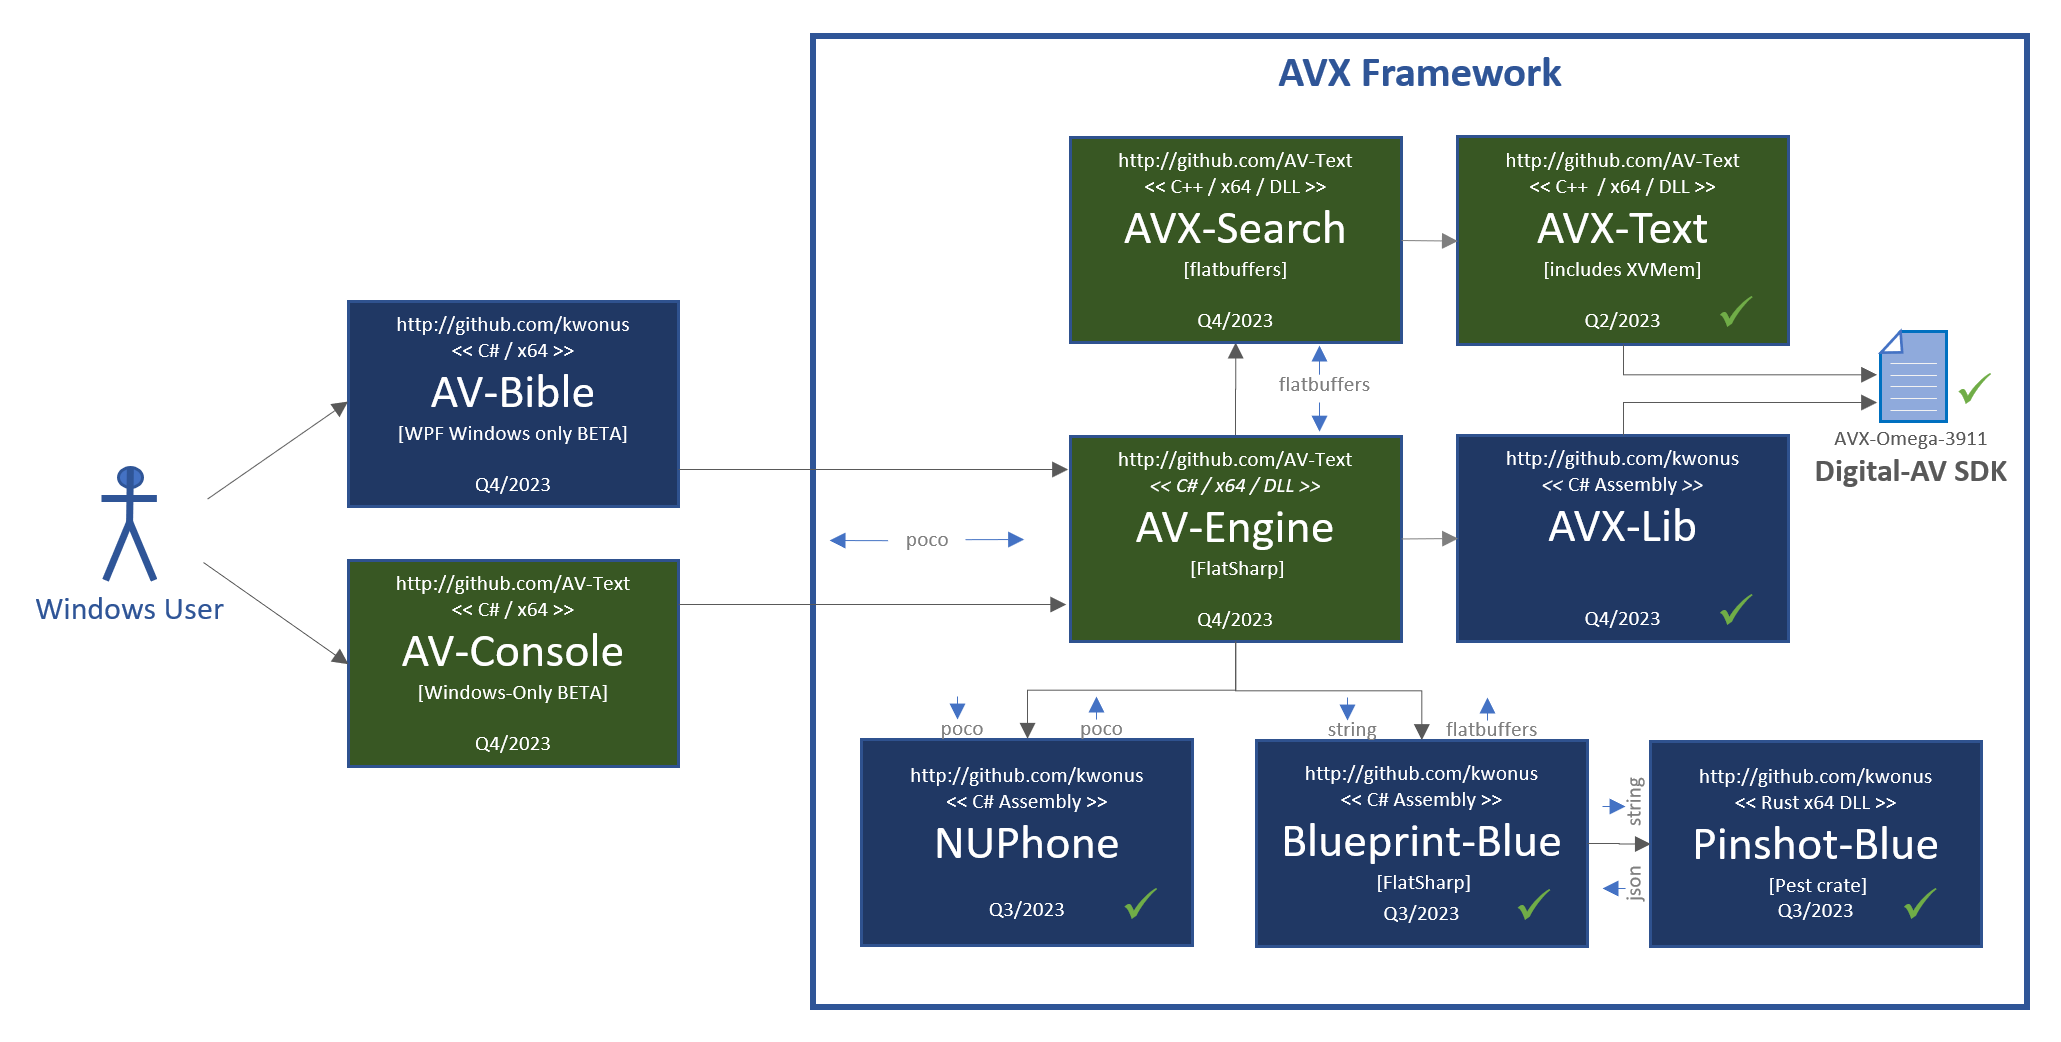
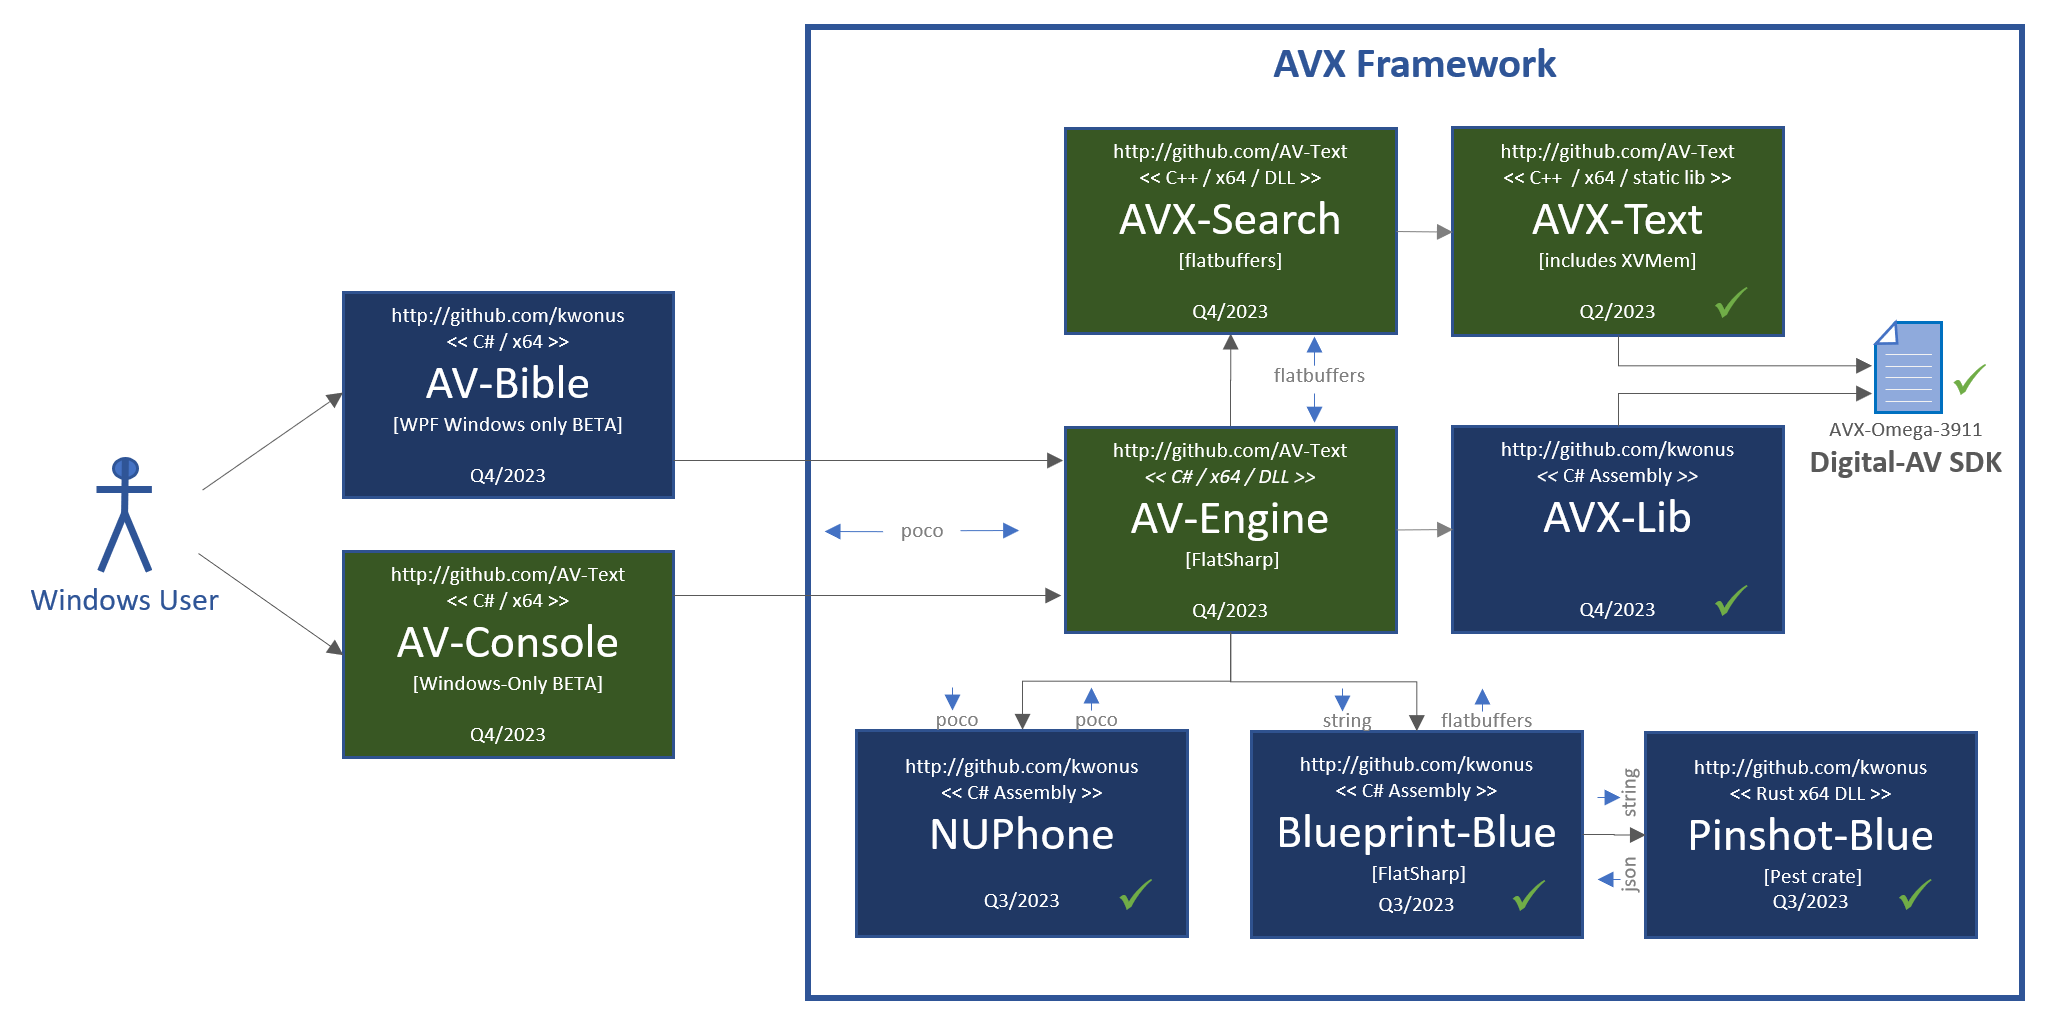
Update diagrams to reflect that AVXText is a static library

diff --git a/README.md b/README.md
@@ -39,7 +39,7 @@ Consumers of AVX-Framework directly target a single dotnet assembly, namely AV-E
 
 ![](AVXSearch/AVX-Framework.png)
 
-**Figure-1**: AVX-Framework dependency diagram [revision #3B07]
+**Figure-1**: AVX-Framework dependency diagram [revision #3B16]
 
 Evidenced by Figure-1, serialization is used for parameters when crossing language-boundaries. Parameter serialization, for in-proc cross-language invocation, is used in lieu more granular parameter-marshalling, because it is both more efficient and less fragile than marshalling. In-proc method invocations that do <u>not</u> cross language boundaries utilize POCO (plain old C# objects \<or\> plain old C++ objects). The table in Figure 2 identifies serialization formats used for inputs and outputs per module, along with repository references.
 
@@ -47,14 +47,14 @@ Evidenced by Figure-1, serialization is used for parameters when crossing langua
 | ------------------------------------------------------------ | ------------------------------------------------------------ | ------------------------------------------------------------ |
 | **AV-Engine** *(github.com/AV-Text/AVX)*<br/>[./AV-Engine](https://github.com/AV-Text/AVX/tree/master/AV-Engine) | Quelle Command (text)                                        | IAVResult   interface                                        |
 | **AVX-Search** *(github.com/AV-Text/AVX)*<br/>[./AVXSearch](https://github.com/AV-Text/AVX/tree/master/AVXSearch) | flatbuffers binary [blueprint]<br/>*(schema: blueprint_blue.fbs)* | flatbuffers binary [search results]<br/>*(schema: avx_search.fbs)* |
-| **AVX-Text** *(github.com/AV-Text/AVX)*<br/>[./AVXText](https://github.com/AV-Text/AVX/tree/master/AVXText) | C++ Classes/Methodsls                                        | C++ Classes/Methods                                          |
+| **AVX-Text** *(github.com/AV-Text/AVX)*<br/>[./AVXText](https://github.com/AV-Text/AVX/tree/master/AVXText) | C++ Classes/Methods                                          | C++ Classes/Methods                                          |
 | **Digital-AV** *(github.com/AV-Text/AVX)*<br/>[./omega](https://github.com/AV-Text/AVX/tree/master/omega)/AVX-Omega-3911.data | n/a                                                          | *see specification:*<br />[Digital-AV-Ω39.pdf](https://github.com/AV-Text/AVX/blob/master/omega/Digital-AV-Ω39.pdf) |
 | **AVX-Lib** *(github.com/kwonus/Digital-AV)*<br/>[./omega/foundations/csharp/AVXLib](https://github.com/kwonus/Digital-AV/tree/master/omega/foundations/csharp/AVXLib) | C# Classes/Methods                                           | C# Classes/Methods                                           |
 | **Pinshot-Blue** *(github.com/kwonus/pinshot-blue)*<br/>[./src](https://github.com/kwonus/pinshot-blue/tree/main/src) | null-terminated text                                         | json-formatted text [pinshot]<br/>*(null-terminated text)*   |
 | **Blueprint-Blue** *(github.com/kwonus/blueprint-blue)*<br/>[./Blueprint-Blue-Lib](https://github.com/kwonus/blueprint-blue/tree/main/Blueprint-Blue-Lib) | null-terminated text                                         | flatbuffers binary [blueprint]<br/>*(schema: blueprint_blue.fbs)* |
 | **NUPhone** *(github.com/kwonus/NUPhone)*<br/>[./PhonemeEmbeddings](https://github.com/kwonus/NUPhone) | C# Classes/Methods                                           | C# Classes/Methods                                           |
 
-**Figure-2**: AVX-Framework input and output definition and repository details [revision #3B07]
+**Figure-2**: AVX-Framework input and output definition and repository details [revision #3B16]
 
 ### AV-Engine Internals
 
@@ -72,13 +72,13 @@ A BETA release of AV-Bible and AV-Console are planned for 2023. The development 
 
 ![](AVXSearch/AVX-Roadmap-2023.png)
 
-**Figure-4**: Development roadmap for BETA releases in 2023 [revision #3B07]
+**Figure-4**: Development roadmap for BETA releases in 2023 [revision #3B16]
 
 We plan to harden AV-Bible (Windows desktop application) and release it into the Microsoft Store in the first quarter of 2024. Afterwards, additional apps will be implemented and released. The diagram, depicted in Figure-5, identifies anticipated application releases and estimated release dates:
 
 ![](AVXSearch/AVX-Roadmap-2024.png)
 
-**Figure-5**: Roadmap for [user-facing] application releases in 2024 [revision #3B07]
+**Figure-5**: Roadmap for [user-facing] application releases in 2024 [revision #3B16]
 
 ### Implementation Status
 
